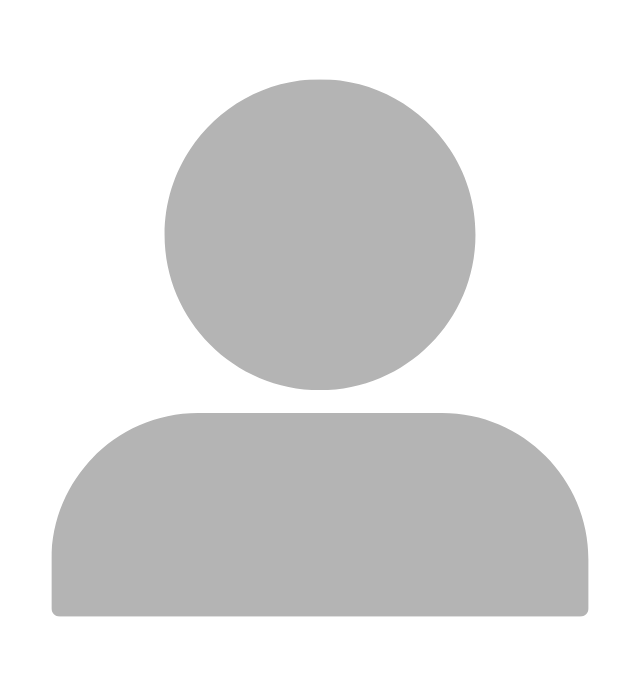
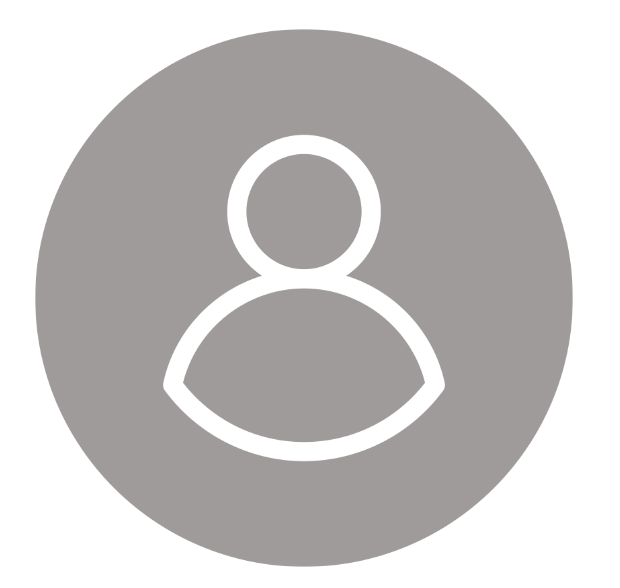
PC版のヘッダー完成

diff --git a/app/assets/stylesheets/module/pc_header_menu.scss b/app/assets/stylesheets/module/pc_header_menu.scss
@@ -1,0 +1,53 @@
+.pc-header-menu {
+  border: 0.5px solid #cacaca;
+  border-radius: 30px;
+  padding: 10px;
+  display: flex;
+  margin-left: auto;
+  cursor: pointer;
+  position: relative;
+  gap: 15px;
+  align-items: center;
+
+  &__user-icon {
+    border-radius: 50%;
+  }
+}
+
+.hover-menu-list {
+  display: none;
+}
+
+.pc-header-menu:hover,
+.hover-menu-list:hover {
+  .hover-menu-list {
+    display: block;
+    position: absolute;
+    top: 50px;
+    right: 0;
+    width: 240px;
+    box-shadow: 0 4px 8px rgba(0, 0, 0, 0.3);
+    z-index: 10;
+    padding: 20px;
+    background-color: #fff;
+
+    &__login-link,
+    &__singup-link,
+    &__heritage-index-link,
+    &__user-index-link,
+    &__logout-link {
+      display: block;
+      font-size: 1.5rem;
+      color: #717171;
+
+      &:hover {
+        color: #242424;
+      }
+    }
+
+    &__login-link,
+    &__heritage-index-link {
+      padding-bottom: 10px;
+    }
+  }
+}

diff --git a/app/assets/stylesheets/module/pc_header.scss b/app/assets/stylesheets/module/pc_header.scss
@@ -11,22 +11,6 @@
     font-weight: bold;
     padding-left: 10px;
   }
-  &__heritage-index-link, &__user-index-link {
-    padding-left: 40px;
-  }
-}
-.header-right-block {
-  margin-left: auto;
-  &__user-icon {
-    & img {
-      border-radius: 50%;
-    }
-  }
-  &__logout-link,
-  &__login-link,
-  &__singup-link {
-    padding-right: 20px;
-  }
 }
 
 @media (max-width: 767px) {

diff --git a/app/assets/stylesheets/module/charm_detail_block.scss b/app/assets/stylesheets/module/charm_detail_block.scss
@@ -45,9 +45,6 @@
 
 @media (max-width: 767px) {
   .charm-detail-block {
-    display: block;
-    width: 100%;
-    margin: 100px auto;
   }
   .charm-img-wrapper, .charm-img-container {
     position: relative;

diff --git a/app/models/user.rb b/app/models/user.rb
@@ -48,8 +48,8 @@ class User < ApplicationRecord
 
   # 永続的セッションのためにユーザーをデータベースに記憶する
   def remember
-    self.remember_token = self.new_token
-    update_attribute(:remember_digest, self.digest(remember_token))
+    self.remember_token = User.new_token
+    update_attribute(:remember_digest, User.digest(remember_token))
   end
 
   def session_token

diff --git a/config/routes.rb b/config/routes.rb
@@ -3,7 +3,7 @@ Rails.application.routes.draw do
   get '/login',  to: 'sessions#new'
   post '/login', to: 'sessions#create'
   get '/signup', to: 'users#new'
-  delete "/logout",  to: "sessions#destroy"
+  get "/logout",  to: "sessions#destroy"
   resources :users do
     member do
       get :following, :followers
